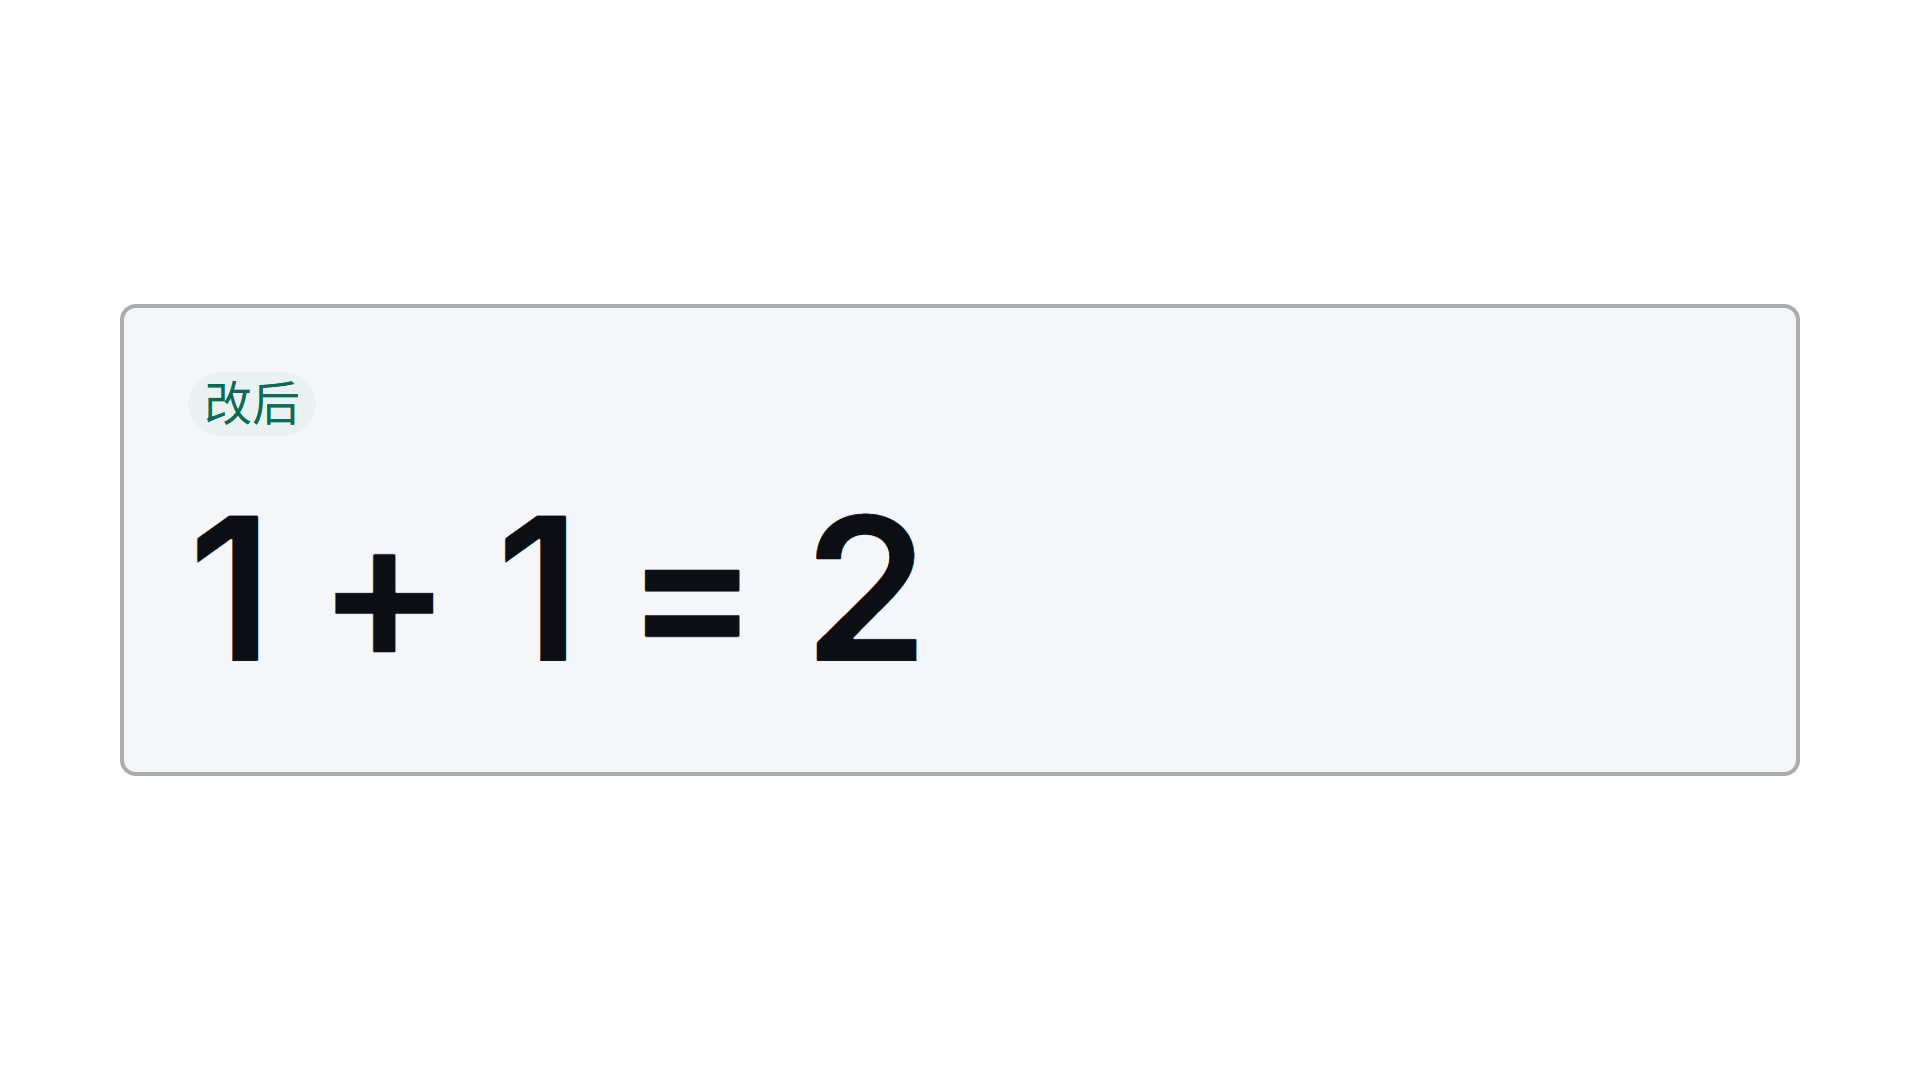
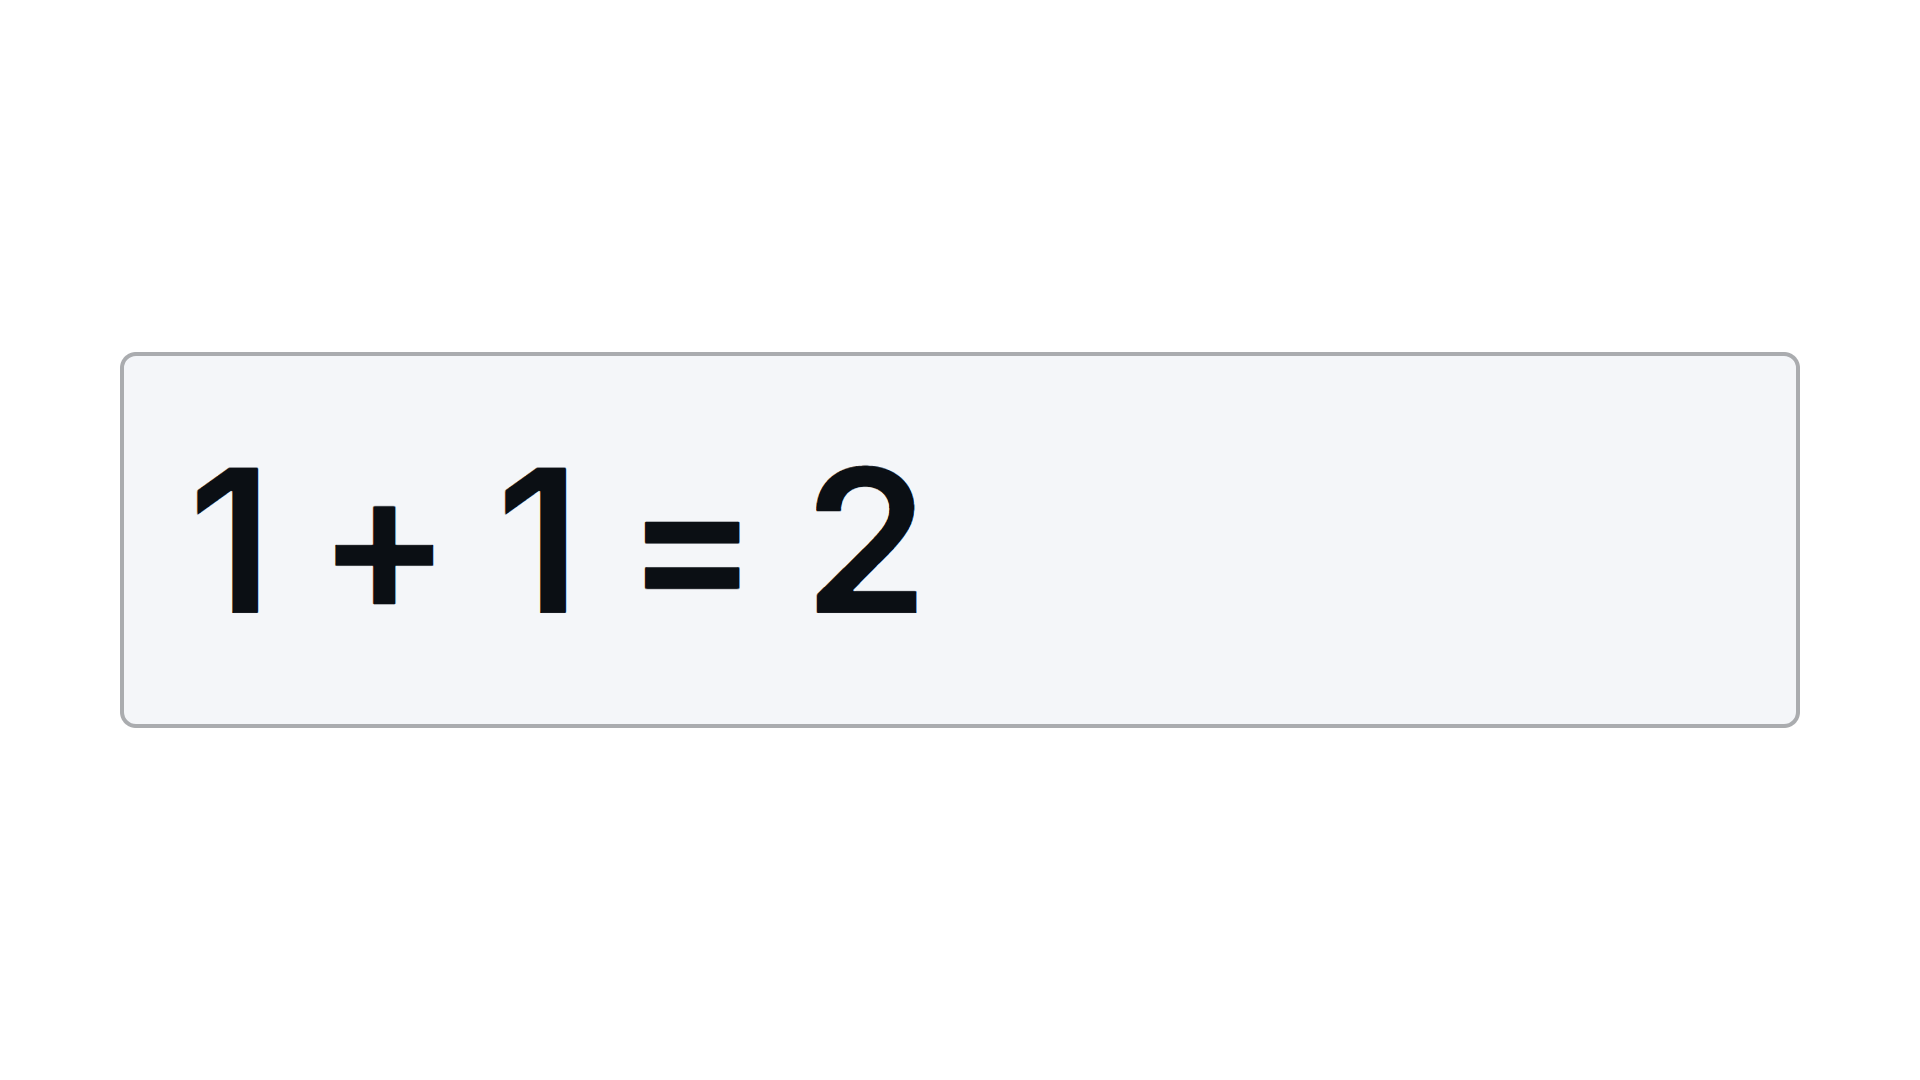
标签不再是「小字」：名称/标题/表头/日期统一提到正文字号
- vk-label、box 标题、窗口文件名、表头、表题、图对照角标、树、时间线日期、步骤编号、位串说明、内存格变量名、标注连线上的字：48 -> 56
- 行高跟着换；窗口头、步骤章加高；文件树默认字号改为 body，容量 8 -> 6
- 真正只该当注释的（格地址、位序号、diff 头/脚、时间线小字）保持 48
- 对照图里去掉重复的小角标（角标已经在图外）

diff --git a/src/components.css b/src/components.css
@@ -73,8 +73,8 @@ vk-box > .vk-box-hd {
   border-radius: inherit;
   border-end-start-radius: 0;
   border-end-end-radius: 0;
-  font-size: var(--vk-fs-caption);
-  line-height: var(--vk-lh-caption);
+  font-size: var(--vk-fs-body);
+  line-height: var(--vk-lh-body);
   font-weight: var(--vk-w-bold);
   color: var(--vk-ink-1);
 }
@@ -107,8 +107,9 @@ vk-label {
   align-items: center;
   gap: var(--vk-gap-close);
   max-width: 100%;
-  font-size: var(--vk-fs-caption);
-  line-height: var(--vk-lh-caption);
+  font-size: var(--vk-fs-body);
+  line-height: var(--vk-lh-body);
+  font-weight: var(--vk-w-medium);
   color: var(--vk-ink-3);
   white-space: nowrap;
 }
@@ -249,11 +250,11 @@ vk-asm {
   display: flex;
   align-items: center;
   gap: var(--vk-gap-close);
-  min-height: var(--vk-gap-wide);
+  min-height: calc(var(--vk-gap-wide) + var(--vk-gap-close));
   padding: 0 var(--vk-gap-normal);
   border-bottom: var(--vk-line-w-hair) solid var(--vk-line-color);
   background: var(--vk-soft);
-  font-size: var(--vk-fs-caption);
+  font-size: var(--vk-fs-body);
   line-height: 1;
   color: var(--vk-ink-2);
   white-space: nowrap;
@@ -500,8 +501,8 @@ vk-table td {
 /* 表头：不依赖作者写 <thead>（浏览器会把裸 <tr> 包进 tbody）。 */
 vk-table th {
   border-bottom: var(--vk-line-w-strong) solid var(--vk-line-strong);
-  font-size: var(--vk-fs-caption);
-  line-height: var(--vk-lh-caption);
+  font-size: var(--vk-fs-body);
+  line-height: var(--vk-lh-body);
   font-weight: var(--vk-w-bold);
   color: var(--vk-ink-2);
   white-space: nowrap;
@@ -518,8 +519,8 @@ vk-table tbody tr[state='current'] td { background: var(--vk-tint-focus); }
 vk-table tbody tr[tone] td { background: var(--vk-tint); }
 vk-table .vk-cap {
   margin-bottom: var(--vk-gap-close);
-  font-size: var(--vk-fs-caption);
-  line-height: var(--vk-lh-caption);
+  font-size: var(--vk-fs-body);
+  line-height: var(--vk-lh-body);
   color: var(--vk-ink-3);
 }
 
@@ -576,8 +577,8 @@ vk-tree {
   display: flex;
   flex-direction: column;
   font-family: var(--vk-font-mono);
-  font-size: var(--vk-cs, var(--vk-fs-caption));
-  line-height: var(--vk-lh-caption);
+  font-size: var(--vk-cs, var(--vk-fs-body));
+  line-height: var(--vk-lh-body);
 }
 .vk-node > .vk-tname {
   display: block;
@@ -650,8 +651,8 @@ vk-cells {
 }
 .vk-cell > .vk-cell-l {
   font-family: var(--vk-font-mono);
-  font-size: var(--vk-fs-caption);
-  line-height: var(--vk-lh-caption);
+  font-size: var(--vk-fs-body);
+  line-height: var(--vk-lh-body);
   color: var(--vk-ink-2);
 }
 .vk-cell > .vk-cell-v {
@@ -713,8 +714,8 @@ vk-bits {
   font-size: var(--vk-cs, var(--vk-fs-body));
 }
 .vk-bits-label {
-  font-size: var(--vk-fs-caption);
-  line-height: var(--vk-lh-caption);
+  font-size: var(--vk-fs-body);
+  line-height: var(--vk-lh-body);
   color: var(--vk-ink-3);
 }
 .vk-bit-row {
@@ -783,13 +784,13 @@ vk-steps[data-direction='vertical'] .vk-step:last-child { padding-bottom: 0; }
   flex: 0 0 auto;
   align-items: center;
   justify-content: center;
-  width: calc(var(--vk-fs-body) + var(--vk-gap-close));
-  height: calc(var(--vk-fs-body) + var(--vk-gap-close));
+  width: calc(var(--vk-fs-body) + var(--vk-gap-normal));
+  height: calc(var(--vk-fs-body) + var(--vk-gap-normal));
   border: var(--vk-line-w-rule) solid var(--vk-line-strong);
   border-radius: var(--vk-radius-md);
   font-family: var(--vk-font-mono);
-  font-size: var(--vk-fs-caption);
-  line-height: var(--vk-lh-caption);
+  font-size: var(--vk-fs-body);
+  line-height: var(--vk-lh-body);
   color: var(--vk-ink-2);
 }
 .vk-step > .vk-step-t {
@@ -889,8 +890,8 @@ vk-timeline {
 .vk-tl-range {
   margin-bottom: var(--vk-gap-close);
   font-family: var(--vk-font-mono);
-  font-size: var(--vk-fs-caption);
-  line-height: var(--vk-lh-caption);
+  font-size: var(--vk-fs-body);
+  line-height: var(--vk-lh-body);
   color: var(--vk-ink-3);
 }
 .vk-tl {
@@ -934,8 +935,8 @@ vk-timeline {
 }
 .vk-tl-item .vk-tl-date {
   font-family: var(--vk-font-mono);
-  font-size: var(--vk-fs-caption);
-  line-height: var(--vk-lh-caption);
+  font-size: var(--vk-fs-body);
+  line-height: var(--vk-lh-body);
   color: var(--vk-ink-2);
 }
 .vk-tl-item .vk-tl-t {
@@ -964,8 +965,8 @@ vk-timeline {
   min-width: 6em;
   padding-top: var(--vk-gap-wide);
   font-family: var(--vk-font-mono);
-  font-size: var(--vk-fs-caption);
-  line-height: var(--vk-lh-caption);
+  font-size: var(--vk-fs-body);
+  line-height: var(--vk-lh-body);
   color: var(--vk-ink-3);
 }
 
@@ -997,8 +998,8 @@ vk-compare {
 .vk-compare-label {
   margin-bottom: var(--vk-gap-close);
   font-family: var(--vk-font-mono);
-  font-size: var(--vk-fs-caption);
-  line-height: var(--vk-lh-caption);
+  font-size: var(--vk-fs-body);
+  line-height: var(--vk-lh-body);
   color: var(--vk-ink-2);
 }
 .vk-compare-mark {

diff --git a/src/callout.css b/src/callout.css
@@ -68,8 +68,8 @@ vk-callout {
   border-radius: var(--vk-radius-pill);
   background: var(--vk-paper);
   color: var(--vk-ink-2);
-  font-size: var(--vk-fs-caption);
-  line-height: var(--vk-lh-caption);
+  font-size: var(--vk-fs-body);
+  line-height: var(--vk-lh-body);
   font-weight: var(--vk-w-medium);
   white-space: nowrap;
 }
@@ -85,6 +85,6 @@ vk-callout {
   background: var(--vk-tone, var(--vk-info));
   color: var(--vk-on-focus);
   font-family: var(--vk-font-mono);
-  font-size: var(--vk-fs-caption);
+  font-size: var(--vk-fs-body);
   line-height: 1;
 }

diff --git a/tests/frames.html b/tests/frames.html
@@ -123,7 +123,7 @@ hello.c:3: error: expected ';'
   <vk-stack gap="normal">
     <vk-label>文件树</vk-label>
     <vk-text size="subhead">编译产物比源码<em>大得多</em>。</vk-text>
-    <vk-tree src="../code" depth="2" max="8" title="code/" current="opt" size="caption"></vk-tree>
+    <vk-tree src="../code" depth="2" max="6" title="code/" current="opt" size="caption"></vk-tree>
   </vk-stack>
 </vk-page>
 

diff --git a/docs/CONTRACT.md b/docs/CONTRACT.md
@@ -13,7 +13,7 @@
 | diff 行 | 5 |
 | 汇编行 | 5 |
 | 表格数据行 | 4 |
-| 文件树行 | 8 |
+| 文件树行 | 6 |
 | 内存格行 | 2 |
 | 位 | 16 |
 | 步骤（横排） | 5 |
@@ -284,7 +284,7 @@ src 指向真实 diff 文本，或内联 <script type="text/plain" data-vk-sourc
 src 指向 .tex 文件，或内联 <script type="text/plain" data-vk-source> 写 TeX。
 
 **`vk-tree`** · 文件树 —— 文件树：src 指向真实目录，构建期扫描层级；缩进与树线是真的，不是列表。
-  一帧容量：10 行。
+  一帧容量：6 行。
 
 | 属性 | 取值 | 默认 | 范围 | 说明 |
 |---|---|---|---|---|
@@ -297,7 +297,7 @@ src 指向 .tex 文件，或内联 <script type="text/plain" data-vk-source> 写
 | `depth` | 整数 | 3 | 1–6 | 最大深度 |
 | `max` | 整数 | 10 | 1–40 | 最多显示几行（超了会留一行说明） |
 | `current` | 文本 | — |  | 当前节点路径 |
-| `size` | caption / body / subhead | caption |  | 字号 |
+| `size` | caption / body / subhead | body |  | 字号 |
 
 src 指向真实目录；也可用 <script type="text/plain" data-vk-tree> 写 JSON。
 

diff --git a/docs/START.md b/docs/START.md
@@ -45,7 +45,7 @@ vk doc    vk-code                 # 一个件的属性表；全部契约看 docs
 
 1. **一帧一件事**。装不下就是这一帧讲多了：拆帧，不是缩字。
 2. **标题一行 12 字**（`headline`）。超过就换 `subhead`，或者拆成两行。
-3. **一帧 8 行预算**。代码 6 行、表 4 行、树 8 行、cells 2 行——见 `RULES.md`。
+3. **一帧 8 行预算**。代码 6 行、表 4 行、树 6 行、cells 2 行——见 `RULES.md`。
 4. **一个焦点**。`current`、`em`、`tone="focus"` 加起来，一帧只该有一处「看这里」。
 5. **不要手写 `style`**。字号/行高/颜色只走 `size` / `ink` / `weight`，构建期会拦。
 6. **结论用 `body`，不要用 `caption`**。`caption` 是元信息（来源、单位、编号），手机 19.5px。

diff --git a/docs/RULES.md b/docs/RULES.md
@@ -12,7 +12,7 @@
 | `vk-code` | 6 行 | 再多会缩到 44px 地板，然后被裁（自检会报） |
 | `vk-term` | 7 行 | 终端行高比代码小 |
 | `vk-table` | 4 行 | 表头另算 |
-| `vk-tree` | 8 行 | 超了末尾留一行「…还有更多」 |
+| `vk-tree` | 6 行 | 超了末尾留一行「…还有更多」 |
 | `vk-cells` | 2 行 | `cols=4` 时 8 格 |
 | `vk-steps` | 5 步 | 横排；再长换 `direction="vertical"` |
 | `vk-bars` | 6 条 | |
